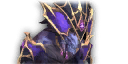
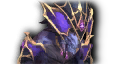
Give every portrait the drop shadow the hand-made ones have
All 64 portraits made in Photoshop carry one; the five taken from retail art did
not, and read as pasted on rather than placed beside them.

The numbers are measured, not guessed. Modelling each shipped portrait as
opacity * blur(shift(silhouette)) and fitting the four parameters returns the
same answer on every one of them -- four pixels right, no vertical offset, a
Gaussian of three, full strength, black -- and applying that to a cut-out with
no shadow reproduces the fit exactly, offset, radius and opacity alike.

On by default, since a portrait that skips it does not match anything already
shipped, with --no-shadow to opt out. The five retail-sourced ones are rebuilt
here.

Two caveats are in the README. The shadow doubles if the source already carries
one and nothing can detect that, so rebuild from the original shot rather than
from images/. And retail's own art has a soft symmetrical halo of its own, so
the shadow lands slightly heavier there than on a clean cut-out.

diff --git a/tools/make_bossportrait.py b/tools/make_bossportrait.py
@@ -34,7 +34,7 @@ import re
 import sys
 from collections import deque
 
-from PIL import Image
+from PIL import Image, ImageFilter
 
 sys.path.insert(0, os.path.dirname(os.path.abspath(__file__)))
 from blp2png import read_blp  # noqa: E402
@@ -47,6 +47,20 @@ WIDTH, HEIGHT = 128, 64
 # looming over them or floating small.
 TARGET_HEIGHT = 61
 CENTRE_X = 59
+
+# The drop shadow, recovered from the 64 portraits that already ship rather than
+# guessed. Modelling each as opacity * blur(shift(silhouette)) and fitting the
+# four numbers gives the same answer on every one of them: four pixels to the
+# right, no vertical offset, a Gaussian of three, at full strength, in black.
+#
+# It is what lifts a cut-out off the panel behind it, and the reason the art made
+# in Photoshop reads as placed rather than pasted. Retail's own portraits have no
+# shadow at all, so art taken from there needs one adding to sit with ours --
+# which is why this is on by default rather than a flag to remember.
+SHADOW_OFFSET = (4, 0)
+SHADOW_RADIUS = 3.0
+SHADOW_OPACITY = 1.0
+SHADOW_COLOUR = (0, 0, 0)
 
 
 def open_any(path):
@@ -217,10 +231,37 @@ def defringe(im, key, tolerance, band=3):
         px[x, y] = unmixed + (int(alpha * 255),)
 
 
+def add_shadow(im, offset=SHADOW_OFFSET, radius=SHADOW_RADIUS,
+               opacity=SHADOW_OPACITY):
+    """Lay a blurred copy of the silhouette under the model.
+
+    Blurred on a padded canvas and cropped back, so the shadow does not fade
+    towards the edges of a model that reaches them -- blurring in place treats
+    everything outside the canvas as empty and eats the edge.
+
+    Running this on art that already carries a shadow doubles it. Nothing detects
+    that, because a shadow is indistinguishable from dark pixels that belong to
+    the creature; rebuild from the source rather than from `images/`.
+    """
+    width, height = im.size
+    pad = int(radius * 3) + max(abs(offset[0]), abs(offset[1])) + 2
+    canvas = Image.new("L", (width + pad * 2, height + pad * 2), 0)
+    canvas.paste(im.getchannel("A"), (pad + offset[0], pad + offset[1]))
+    canvas = canvas.filter(ImageFilter.GaussianBlur(radius))
+    mask = canvas.crop((pad, pad, pad + width, pad + height))
+    if opacity != 1.0:
+        mask = mask.point(lambda v: int(max(0, min(255, v * opacity))))
+    shadow = Image.new("RGBA", (width, height), SHADOW_COLOUR + (0,))
+    shadow.putalpha(mask)
+    return Image.alpha_composite(shadow, im)
+
+
 def build(source, tolerance=32, target_height=TARGET_HEIGHT, centre_x=CENTRE_X,
-          erode_px=None):
+          erode_px=None, shadow=True):
     im = open_any(source)
     if im.size == (WIDTH, HEIGHT) and has_alpha(im):
+        if shadow:
+            return add_shadow(im), "already a portrait, shadow added"
         return im, "already a portrait, copied as is"
     note = "used the source's own alpha"
     if not has_alpha(im):
@@ -251,12 +292,15 @@ def build(source, tolerance=32, target_height=TARGET_HEIGHT, centre_x=CENTRE_X,
     x = round(centre_x - model.width / 2)
     x = max(0, min(WIDTH - model.width, x))
     out.alpha_composite(model, (x, HEIGHT - model.height))
+    if shadow:
+        out = add_shadow(out)
+        note += ", with shadow"
     return out, note
 
 
 def cmd_build(args):
     out, note = build(args.source, args.tolerance, args.height, args.centre_x,
-                      args.erode)
+                      args.erode, not args.no_shadow)
     name = args.name
     for prefix in ("I.UIEJBoss", "UIEJBoss"):
         if name.startswith(prefix):
@@ -365,7 +409,7 @@ def cmd_batch(args):
         path, boss = hit
         key = art_key(boss)
         out, note = build(source, args.tolerance, args.height, args.centre_x,
-                          args.erode)
+                          args.erode, not args.no_shadow)
         target = os.path.join(AG_ROOT, "images", "UIEJBoss%s.png" % key)
         if not args.dry_run:
             out.save(target)
@@ -406,6 +450,8 @@ def main():
     b.add_argument("--erode", type=int, default=None,
                    help="source pixels to shave off the edge; raise it if a rim of "
                         "the backdrop's colour survives (default: one output pixel)")
+    b.add_argument("--no-shadow", action="store_true",
+                   help="skip the drop shadow the shipped portraits all carry")
     b.add_argument("--out", help="write here instead of images/")
     b.add_argument("--dry-run", action="store_true")
     b.set_defaults(func=cmd_build)
@@ -423,6 +469,7 @@ def main():
     t.add_argument("--height", type=int, default=TARGET_HEIGHT)
     t.add_argument("--centre-x", type=int, default=CENTRE_X)
     t.add_argument("--erode", type=int, default=None)
+    t.add_argument("--no-shadow", action="store_true")
     t.add_argument("--dry-run", action="store_true")
     t.set_defaults(func=cmd_batch)
 

diff --git a/tools/README.md b/tools/README.md
@@ -330,8 +330,36 @@ placeholder are listed rather than guessed at, so a typo is reported instead of
 landing on the wrong encounter.
 
 It writes `images/UIEJBoss<Name>.png` and prints the `portrait` line. The source may
-be PNG, JPEG or BLP; art that is already a 128x64 cut-out passes through untouched,
-so retail's own `UI-EJ-BOSS-*` files can be used directly.
+be PNG, JPEG or BLP; art that is already a 128x64 cut-out is taken as it stands, so
+retail's own `UI-EJ-BOSS-*` files can be used directly.
+
+### The drop shadow
+
+Every portrait gets one, because every one of the 64 made by hand already had one
+and a new portrait without it reads as pasted on rather than placed. `--no-shadow`
+opts out.
+
+The numbers were recovered rather than guessed: modelling each shipped portrait as
+`opacity * blur(shift(silhouette))` and fitting the four parameters gives the same
+answer on all of them, and applying it to a cut-out with no shadow reproduces that
+fit exactly.
+
+| | |
+|---|---|
+| Offset | 4 right, 0 down |
+| Blur | Gaussian, radius 3 |
+| Opacity | full |
+| Colour | black |
+
+Two things to know. It is applied to the finished 128x64 canvas, blurred on a
+padded copy so a model touching an edge does not have its shadow eaten there. And
+**it doubles if the source already has one**, which nothing can detect — a shadow
+is indistinguishable from dark pixels belonging to the creature — so rebuild from
+the original shot, never from `images/`.
+
+Retail's own art carries a soft halo of its own, symmetrical rather than offset.
+The shadow still goes on, since that halo is not a drop shadow and the result sits
+with ours, but it lands a little heavier than on a clean cut-out.
 
 The format, measured from the 59 shipped and confirmed against retail's (also
 128x64): the model stands on the bottom edge, fills about 60 of the 64 points of
